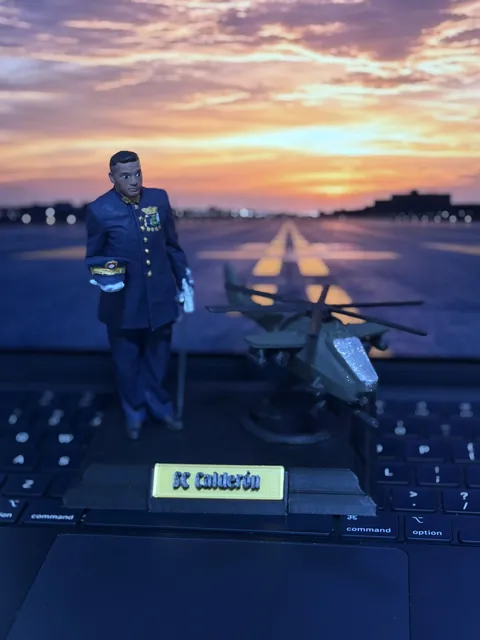
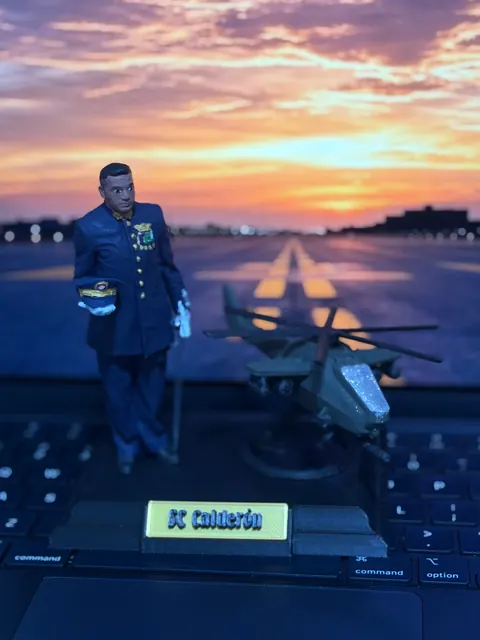
Fotos reales de SC Calderón en /grado-ascenso: WebP + JPG en 480/960/1440 con srcset/sizes, lazy y alt descriptivos
- scripts/optimizar-fotos-grado.py genera los 4 juegos desde los originales (Display P3 -> sRGB, sin EXIF).
- Recortes suaves solo de bordes del portátil; ningún primer plano de insignias.
- Se reemplazan las versiones de 1600 px por 1440 en la home, el sitemap, og:image y el schema.

diff --git a/web/grado-ascenso.html b/web/grado-ascenso.html
@@ -14,15 +14,15 @@
   <meta property="og:site_name" content="FlippArt">
   <meta property="og:title" content="Su uniforme, su grado, su logro: en una figura pintada a mano">
   <meta property="og:description" content="Regalo de grado y ascenso para policías, militares y sus familias. Hecha a mano en Bogotá desde una foto en uniforme. Desde $120.000 (versión mini).">
-  <meta property="og:image" content="https://flippart.com.co/assets/grado/sc-calderon-hero-1600.jpg">
-  <meta property="og:image:width" content="1600">
-  <meta property="og:image:height" content="1067">
+  <meta property="og:image" content="https://flippart.com.co/assets/grado/sc-calderon-hero-1440.jpg">
+  <meta property="og:image:width" content="1440">
+  <meta property="og:image:height" content="960">
   <meta property="og:image:alt" content="Figura pintada a mano de SC Calderón en uniforme de gala junto a un helicóptero en miniatura">
   <meta property="og:url" content="https://flippart.com.co/grado-ascenso">
   <meta name="twitter:card" content="summary_large_image">
   <meta name="twitter:title" content="Su uniforme, su grado, su logro: en una figura pintada a mano">
   <meta name="twitter:description" content="Regalo de grado y ascenso para policías, militares y sus familias. Desde $120.000 (versión mini).">
-  <meta name="twitter:image" content="https://flippart.com.co/assets/grado/sc-calderon-hero-1600.jpg">
+  <meta name="twitter:image" content="https://flippart.com.co/assets/grado/sc-calderon-hero-1440.jpg">
 
   <link rel="icon" href="/assets/favicon.ico" sizes="32x32">
   <link rel="icon" type="image/png" sizes="32x32" href="/assets/favicon-32.png">
@@ -32,17 +32,17 @@
   <link rel="preconnect" href="https://fonts.googleapis.com">
   <link rel="preconnect" href="https://fonts.gstatic.com" crossorigin>
   <link rel="preload" as="image" type="image/webp"
-        imagesrcset="/assets/grado/sc-calderon-frontal-480.webp 480w, /assets/grado/sc-calderon-frontal-960.webp 960w"
-        imagesizes="(min-width: 960px) 40vw, 100vw" fetchpriority="high">
+        imagesrcset="/assets/grado/sc-calderon-frontal-480.webp 480w, /assets/grado/sc-calderon-frontal-960.webp 960w, /assets/grado/sc-calderon-frontal-1440.webp 1440w"
+        imagesizes="(min-width: 33rem) 30rem, calc(100vw - 2.5rem)" fetchpriority="high">
   <link href="https://fonts.googleapis.com/css2?family=Cormorant+Garamond:ital,wght@0,500;0,600;0,700;1,500&family=Montserrat:wght@400;500;600&display=swap" rel="stylesheet">
   <script>
     (function () {
       var dev = /^(localhost|127\.0\.0\.1)$/i.test(location.hostname);
-      var css = dev ? '/css/style.css?dev=' + Date.now() : '/css/style.css?v=46';
+      var css = dev ? '/css/style.css?dev=' + Date.now() : '/css/style.css?v=47';
       document.write('<link rel="stylesheet" href="' + css + '">');
     })();
   </script>
-  <noscript><link rel="stylesheet" href="/css/style.css?v=46"></noscript>
+  <noscript><link rel="stylesheet" href="/css/style.css?v=47"></noscript>
   <script src="/js/config.js?v=4"></script>
   <!-- Meta Pixel / GA4 / Clarity: tracking.js los carga solo si su ID existe en config.js y la persona acepta el aviso de datos -->
   <script src="/js/tracking.js?v=3"></script>
@@ -65,7 +65,7 @@
         "description": "Regalo de grado y ascenso para policías, militares y sus familias. La hago desde una foto en uniforme, a mano, en Bogotá. Desde $120.000 (versión mini).",
         "provider": { "@id": "https://flippart.com.co/#business" },
         "areaServed": { "@type": "Country", "name": "Colombia" },
-        "image": "https://flippart.com.co/assets/grado/sc-calderon-hero-1600.jpg",
+        "image": "https://flippart.com.co/assets/grado/sc-calderon-hero-1440.jpg",
         "offers": [
           { "@type": "Offer", "@id": "https://flippart.com.co/grado-ascenso#oferta-esencial", "name": "Edición Esencial (versión mini)", "priceCurrency": "COP", "price": "120000", "priceSpecification": { "@type": "PriceSpecification", "priceCurrency": "COP", "minPrice": "120000" } },
           { "@type": "Offer", "@id": "https://flippart.com.co/grado-ascenso#oferta-honor", "name": "Edición Honor", "priceCurrency": "COP", "price": "300000" }
@@ -132,11 +132,13 @@
       </div>
       <figure class="foto hero__media hero__media--retrato">
         <picture>
-          <source type="image/webp" srcset="/assets/grado/sc-calderon-frontal-480.webp 480w, /assets/grado/sc-calderon-frontal-960.webp 960w" sizes="(min-width: 960px) 40vw, 100vw">
+          <source type="image/webp"
+                  srcset="/assets/grado/sc-calderon-frontal-480.webp 480w, /assets/grado/sc-calderon-frontal-960.webp 960w, /assets/grado/sc-calderon-frontal-1440.webp 1440w"
+                  sizes="(min-width: 33rem) 30rem, calc(100vw - 2.5rem)">
           <img src="/assets/grado/sc-calderon-frontal-960.jpg"
-               srcset="/assets/grado/sc-calderon-frontal-480.jpg 480w, /assets/grado/sc-calderon-frontal-960.jpg 960w"
-               sizes="(min-width: 960px) 40vw, 100vw" width="960" height="1280"
-               alt="Vista frontal de la figura pintada a mano de SC Calderón: uniforme azul oscuro de botones dorados, condecoraciones, guantes blancos y quepis en la mano, junto a un helicóptero en miniatura."
+               srcset="/assets/grado/sc-calderon-frontal-480.jpg 480w, /assets/grado/sc-calderon-frontal-960.jpg 960w, /assets/grado/sc-calderon-frontal-1440.jpg 1440w"
+               sizes="(min-width: 33rem) 30rem, calc(100vw - 2.5rem)" width="960" height="1280"
+               alt="Figura pintada a mano de SC Calderón en uniforme azul oscuro de botones dorados, con condecoraciones, guantes blancos y el quepis en la mano, junto a un helicóptero en miniatura sobre una base negra con placa amarilla."
                fetchpriority="high" loading="eager" decoding="async">
         </picture>
         <figcaption>Figura real: SC Calderón, pintada a mano.</figcaption>
@@ -171,31 +173,34 @@
       <h2 id="t-figuras">Figuras reales</h2>
       <article class="caso" style="margin-top: var(--s3)" aria-label="SC Calderón">
         <div class="caso__fotos">
-          <button class="abrir ancha" type="button" data-item="sc_calderon_pista" data-lightbox="/assets/grado/sc-calderon-hero-1600.webp" data-caption="SC Calderón con su helicóptero." aria-label="Ver en grande: SC Calderón con su helicóptero">
+          <button class="abrir ancha" type="button" data-item="sc_calderon_pista" data-lightbox="/assets/grado/sc-calderon-hero-1440.webp" data-caption="SC Calderón con su helicóptero." aria-label="Ver en grande: SC Calderón con su helicóptero">
             <figure class="foto">
               <picture>
-                <source type="image/webp" srcset="/assets/grado/sc-calderon-hero-480.webp 480w, /assets/grado/sc-calderon-hero-960.webp 960w" sizes="(min-width: 960px) 36vw, 92vw">
-                <img src="/assets/grado/sc-calderon-hero-960.jpg" srcset="/assets/grado/sc-calderon-hero-480.jpg 480w, /assets/grado/sc-calderon-hero-960.jpg 960w" sizes="(min-width: 960px) 36vw, 92vw" width="960" height="640" loading="lazy" decoding="async"
-                     alt="Figura de SC Calderón en uniforme de gala con quepis y bastón, junto a un helicóptero en miniatura, sobre base negra con placa amarilla con su nombre.">
+                <source type="image/webp" srcset="/assets/grado/sc-calderon-hero-480.webp 480w, /assets/grado/sc-calderon-hero-960.webp 960w, /assets/grado/sc-calderon-hero-1440.webp 1440w" sizes="(min-width: 960px) min(35rem, 48vw), calc(100vw - 2.5rem)">
+                <img src="/assets/grado/sc-calderon-hero-960.jpg" srcset="/assets/grado/sc-calderon-hero-480.jpg 480w, /assets/grado/sc-calderon-hero-960.jpg 960w, /assets/grado/sc-calderon-hero-1440.jpg 1440w" sizes="(min-width: 960px) min(35rem, 48vw), calc(100vw - 2.5rem)"
+                     width="960" height="640" loading="lazy" decoding="async"
+                     alt="Figura de SC Calderón de pie sobre una base negra con placa amarilla con su nombre, junto a un helicóptero verde oliva en miniatura; al fondo, un atardecer sobre una pista de aterrizaje.">
               </picture>
               <figcaption>SC Calderón, figura en uniforme con su helicóptero.</figcaption>
             </figure>
           </button>
-          <button class="abrir" type="button" data-item="sc_calderon_tres_cuartos" data-lightbox="/assets/grado/sc-calderon-tres-cuartos-1600.webp" data-caption="Vista de tres cuartos: quepis, guantes y bastón." aria-label="Ver en grande: vista de tres cuartos de SC Calderón">
+          <button class="abrir" type="button" data-item="sc_calderon_tres_cuartos" data-lightbox="/assets/grado/sc-calderon-tres-cuartos-1440.webp" data-caption="Vista de cerca: quepis, guantes y bastón." aria-label="Ver en grande: vista de cerca de SC Calderón">
             <figure class="foto foto--g2">
               <picture>
-                <source type="image/webp" srcset="/assets/grado/sc-calderon-tres-cuartos-480.webp">
-                <img src="/assets/grado/sc-calderon-tres-cuartos-480.jpg" width="480" height="640" loading="lazy" decoding="async"
-                     alt="Figura de SC Calderón en vista de tres cuartos: sostiene el quepis con guante blanco y un bastón; a su lado, un helicóptero pintado en verde oliva.">
+                <source type="image/webp" srcset="/assets/grado/sc-calderon-tres-cuartos-480.webp 480w, /assets/grado/sc-calderon-tres-cuartos-960.webp 960w, /assets/grado/sc-calderon-tres-cuartos-1440.webp 1440w" sizes="(min-width: 960px) min(17.5rem, 24vw), calc(50vw - 1.75rem)">
+                <img src="/assets/grado/sc-calderon-tres-cuartos-960.jpg" srcset="/assets/grado/sc-calderon-tres-cuartos-480.jpg 480w, /assets/grado/sc-calderon-tres-cuartos-960.jpg 960w, /assets/grado/sc-calderon-tres-cuartos-1440.jpg 1440w" sizes="(min-width: 960px) min(17.5rem, 24vw), calc(50vw - 1.75rem)"
+                     width="960" height="1280" loading="lazy" decoding="async"
+                     alt="Figura de SC Calderón vista de cerca: sostiene el quepis con guante blanco y un bastón; a su lado, el helicóptero pintado en verde oliva.">
               </picture>
             </figure>
           </button>
-          <button class="abrir" type="button" data-item="sc_calderon_placa" data-lightbox="/assets/grado/sc-calderon-placa-1600.webp" data-caption="Base con placa personalizada “SC Calderón”." aria-label="Ver en grande: base con placa de SC Calderón">
+          <button class="abrir" type="button" data-item="sc_calderon_placa" data-lightbox="/assets/grado/sc-calderon-placa-1440.webp" data-caption="Base con placa personalizada “SC Calderón”." aria-label="Ver en grande: base con placa de SC Calderón">
             <figure class="foto foto--g1">
               <picture>
-                <source type="image/webp" srcset="/assets/grado/sc-calderon-placa-480.webp">
-                <img src="/assets/grado/sc-calderon-placa-480.jpg" width="480" height="640" loading="lazy" decoding="async"
-                     alt="Figura de SC Calderón y helicóptero sobre base negra con placa amarilla que dice “SC Calderón”.">
+                <source type="image/webp" srcset="/assets/grado/sc-calderon-placa-480.webp 480w, /assets/grado/sc-calderon-placa-960.webp 960w, /assets/grado/sc-calderon-placa-1440.webp 1440w" sizes="(min-width: 960px) min(17.5rem, 24vw), calc(50vw - 1.75rem)">
+                <img src="/assets/grado/sc-calderon-placa-960.jpg" srcset="/assets/grado/sc-calderon-placa-480.jpg 480w, /assets/grado/sc-calderon-placa-960.jpg 960w, /assets/grado/sc-calderon-placa-1440.jpg 1440w" sizes="(min-width: 960px) min(17.5rem, 24vw), calc(50vw - 1.75rem)"
+                     width="960" height="1280" loading="lazy" decoding="async"
+                     alt="Figura de SC Calderón y el helicóptero sobre la base negra con placa amarilla que dice “SC Calderón”.">
               </picture>
             </figure>
           </button>
@@ -361,6 +366,6 @@
     <p id="lightboxCaption"></p>
   </div>
 
-  <script src="/js/main.js?v=21"></script>
+  <script src="/js/main.js?v=22"></script>
 </body>
 </html>

diff --git a/web/index.html b/web/index.html
@@ -43,7 +43,7 @@
   <link rel="preconnect" href="https://fonts.googleapis.com">
   <link rel="preconnect" href="https://fonts.gstatic.com" crossorigin>
   <link rel="preload" as="image" type="image/webp"
-        imagesrcset="assets/grado/sc-calderon-hero-480.webp 480w, assets/grado/sc-calderon-hero-960.webp 960w, assets/grado/sc-calderon-hero-1600.webp 1600w"
+        imagesrcset="assets/grado/sc-calderon-hero-480.webp 480w, assets/grado/sc-calderon-hero-960.webp 960w, assets/grado/sc-calderon-hero-1440.webp 1440w"
         imagesizes="(min-width: 960px) 54vw, 100vw" fetchpriority="high">
   <link href="https://fonts.googleapis.com/css2?family=Cormorant+Garamond:ital,wght@0,500;0,600;0,700;1,500&family=Montserrat:wght@400;500;600&display=swap" rel="stylesheet">
   <script>
@@ -108,10 +108,10 @@
       </div>
       <figure class="foto hero__media">
         <picture>
-          <source type="image/webp" srcset="assets/grado/sc-calderon-hero-480.webp 480w, assets/grado/sc-calderon-hero-960.webp 960w, assets/grado/sc-calderon-hero-1600.webp 1600w" sizes="(min-width: 960px) 54vw, 100vw">
+          <source type="image/webp" srcset="assets/grado/sc-calderon-hero-480.webp 480w, assets/grado/sc-calderon-hero-960.webp 960w, assets/grado/sc-calderon-hero-1440.webp 1440w" sizes="(min-width: 960px) 54vw, 100vw">
           <img src="assets/grado/sc-calderon-hero-960.jpg"
-               srcset="assets/grado/sc-calderon-hero-480.jpg 480w, assets/grado/sc-calderon-hero-960.jpg 960w, assets/grado/sc-calderon-hero-1600.jpg 1600w"
-               sizes="(min-width: 960px) 54vw, 100vw" width="1600" height="1067"
+               srcset="assets/grado/sc-calderon-hero-480.jpg 480w, assets/grado/sc-calderon-hero-960.jpg 960w, assets/grado/sc-calderon-hero-1440.jpg 1440w"
+               sizes="(min-width: 960px) 54vw, 100vw" width="1440" height="960"
                alt="Figura pintada a mano de SC Calderón en uniforme de gala azul oscuro, con quepis y bastón, junto a un helicóptero en miniatura, sobre una base negra con placa amarilla con su nombre."
                fetchpriority="high" loading="eager" decoding="async">
         </picture>
@@ -205,7 +205,7 @@
       <article class="caso" aria-labelledby="t-calderon">
         <h3 id="t-calderon">SC Calderón · figura en uniforme con su helicóptero</h3>
         <div class="caso__fotos caso__fotos--tres">
-          <button class="abrir" type="button" data-item="sc_calderon_tres_cuartos" data-lightbox="assets/grado/sc-calderon-tres-cuartos-1600.webp" data-caption="SC Calderón con su helicóptero." aria-label="Ver en grande: SC Calderón con su helicóptero">
+          <button class="abrir" type="button" data-item="sc_calderon_tres_cuartos" data-lightbox="assets/grado/sc-calderon-tres-cuartos-1440.webp" data-caption="SC Calderón con su helicóptero." aria-label="Ver en grande: SC Calderón con su helicóptero">
             <figure class="foto">
               <picture>
                 <source type="image/webp" srcset="assets/grado/sc-calderon-tres-cuartos-480.webp 480w, assets/grado/sc-calderon-tres-cuartos-960.webp 960w" sizes="(min-width: 960px) 36vw, 92vw">
@@ -214,7 +214,7 @@
               </picture>
             </figure>
           </button>
-          <button class="abrir" type="button" data-item="sc_calderon_frontal" data-lightbox="assets/grado/sc-calderon-frontal-1600.webp" data-caption="Detalle del uniforme y las condecoraciones." aria-label="Ver en grande: detalle del uniforme de SC Calderón">
+          <button class="abrir" type="button" data-item="sc_calderon_frontal" data-lightbox="assets/grado/sc-calderon-frontal-1440.webp" data-caption="Detalle del uniforme y las condecoraciones." aria-label="Ver en grande: detalle del uniforme de SC Calderón">
             <figure class="foto foto--g2">
               <picture>
                 <source type="image/webp" srcset="assets/grado/sc-calderon-frontal-480.webp">
@@ -223,7 +223,7 @@
               </picture>
             </figure>
           </button>
-          <button class="abrir" type="button" data-item="sc_calderon_placa" data-lightbox="assets/grado/sc-calderon-placa-1600.webp" data-caption="Base con placa personalizada “SC Calderón”." aria-label="Ver en grande: base con placa de SC Calderón">
+          <button class="abrir" type="button" data-item="sc_calderon_placa" data-lightbox="assets/grado/sc-calderon-placa-1440.webp" data-caption="Base con placa personalizada “SC Calderón”." aria-label="Ver en grande: base con placa de SC Calderón">
             <figure class="foto foto--g1">
               <picture>
                 <source type="image/webp" srcset="assets/grado/sc-calderon-placa-480.webp">

diff --git a/scripts/optimizar-fotos-grado.py b/scripts/optimizar-fotos-grado.py
@@ -1,0 +1,54 @@
+"""Genera las fotos de SC Calderón de /grado-ascenso en WebP + JPG de respaldo (480, 960 y 1440 px de ancho).
+
+Uso (desde la raíz del repo):  python3 scripts/optimizar-fotos-grado.py [carpeta_originales]
+Por defecto lee /workspace/flippart-fotos. Requiere Pillow. Los originales no se modifican.
+
+Recortes suaves (bordes del portátil y teclado), nunca primeros planos del torso: las insignias
+pintadas deben seguir siendo un detalle pequeño de la foto.
+Convierte Display P3 a sRGB y no copia EXIF ni perfiles al resultado.
+"""
+import io
+import sys
+from pathlib import Path
+
+from PIL import Image, ImageCms
+
+ORIGEN = Path(sys.argv[1] if len(sys.argv) > 1 else "/workspace/flippart-fotos")
+DESTINO = Path(__file__).resolve().parent.parent / "web" / "assets" / "grado"
+ANCHOS = (480, 960, 1440)
+
+# original -> (nombre de salida, caja de recorte en px del original: izq, arriba, der, abajo)
+FOTOS = {
+    "01M5XN817VJ6STA5QQN21PV97Y.jpg": ("sc-calderon-hero", (116, 320, 3916, 2853)),          # 3:2
+    "01M5XN7ZAY6SSK45ZDYCDVY1VS.jpg": ("sc-calderon-frontal", (110, 0, 2910, 3733)),         # 3:4
+    "01M5XN8082HHDKN8ZVZ47BZ578.jpg": ("sc-calderon-placa", (110, 220, 2910, 3953)),         # 3:4
+    "01M5XN7V2HJQT4VZNH2JECBD8B.jpg": ("sc-calderon-tres-cuartos", (100, 430, 4060, 5710)),  # 3:4
+}
+
+SRGB = ImageCms.createProfile("sRGB")
+
+
+def a_srgb(im):
+    icc = im.info.get("icc_profile")
+    im = im.convert("RGB")
+    if not icc:
+        return im
+    origen = ImageCms.ImageCmsProfile(io.BytesIO(icc))
+    return ImageCms.profileToProfile(im, origen, SRGB, outputMode="RGB")
+
+
+def main():
+    DESTINO.mkdir(parents=True, exist_ok=True)
+    for archivo, (nombre, caja) in FOTOS.items():
+        with Image.open(ORIGEN / archivo) as im:
+            base = a_srgb(im).crop(caja)
+        for ancho in ANCHOS:
+            alto = round(base.height * ancho / base.width)
+            img = base.resize((ancho, alto), Image.LANCZOS)
+            img.save(DESTINO / f"{nombre}-{ancho}.webp", "WEBP", quality=78, method=6)
+            img.save(DESTINO / f"{nombre}-{ancho}.jpg", "JPEG", quality=80, optimize=True, progressive=True)
+            print(f"{nombre}-{ancho}: {ancho}x{alto}")
+
+
+if __name__ == "__main__":
+    main()
